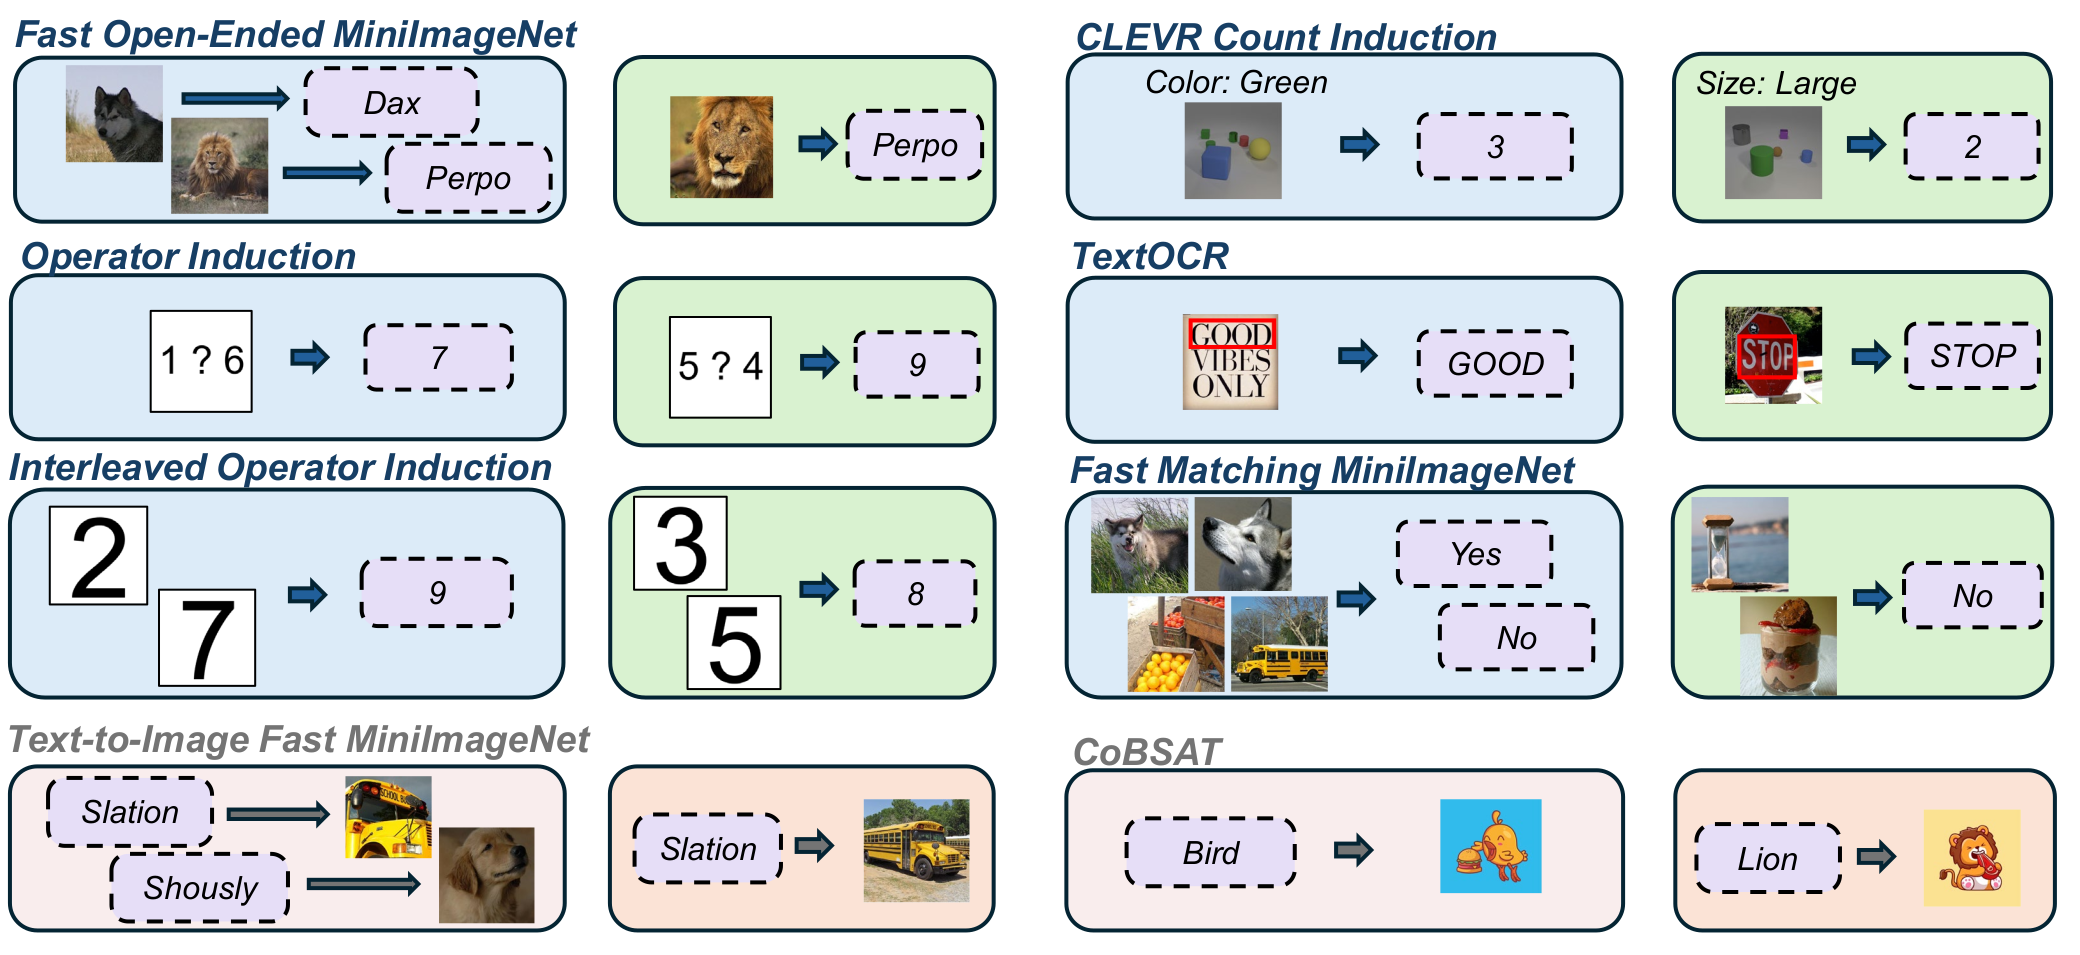
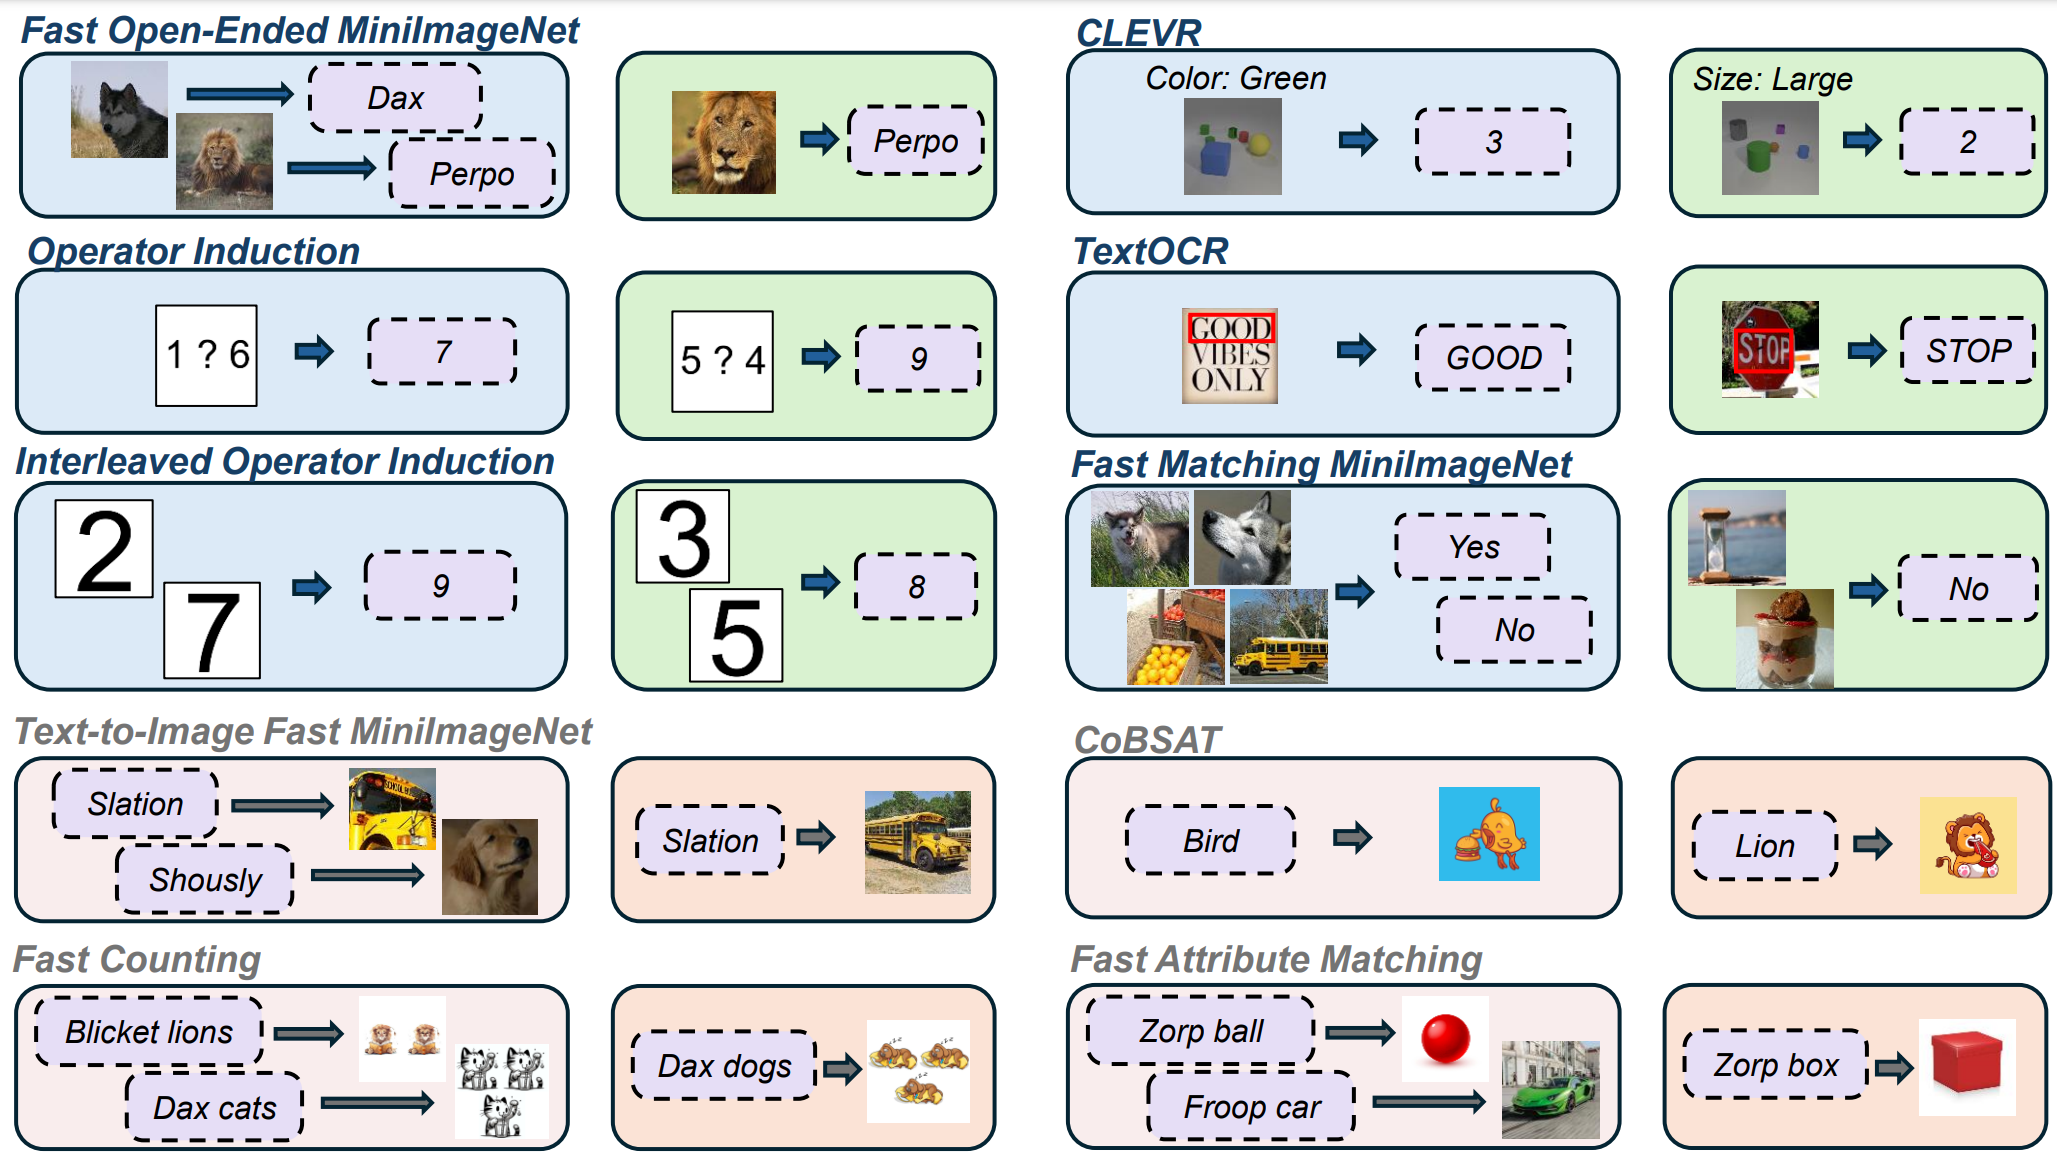
update proj page

diff --git a/index.md b/index.md
@@ -2,7 +2,7 @@
 layout: project_page
 permalink: /
 
-title:  "VL-ICL Bench: The Devil in the Details of Benchmarking Multimodal In-Context Learning"
+title:  "VL-ICL Bench: The Devil in the Details of Multimodal In-Context Learning"
 authors:
   - "Yongshuo Zong*, "
   - "Ondrej Bohdal*, "
@@ -28,7 +28,9 @@ Large language models (LLMs) famously exhibit emergent in-context learning (ICL)
 
 ![Dataset](static/image/dataset.png)
 
-Figure: Illustration of the different tasks in VL-ICL Bench. Image-to-text tasks are in the first three rows, while text-to-image tasks are in the bottom row. Image-to-text tasks in the third row do reasoning on interleaved image-text inputs.
+Figure: Illustration of the different tasks in VL-ICL Bench. Image-to-text tasks are in the first
+three rows, while text-to-image tasks are in the bottom two rows. Image-to-text tasks in the third
+row do reasoning on interleaved image-text inputs.
 
 
 
@@ -62,7 +64,7 @@ The main results for VL-ICL Bench are presented in the figure above including a 
 ## Citation
 ```
 @article{zong2024vlicl,
-  title={VL-ICL Bench: The Devil in the Details of Benchmarking Multimodal In-Context Learning},
+  title={VL-ICL Bench: The Devil in the Details of Multimodal In-Context Learning},
   author={Zong, Yongshuo and Bohdal, Ondrej and Hospedales, Timothy},
   journal={arXiv preprint arXiv:2403.13164},
   year={2024}
